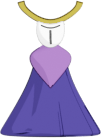
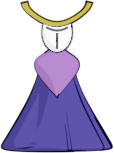
Trader is now almost finished

diff --git a/dung/world.cs b/dung/world.cs
@@ -124,64 +124,67 @@ namespace dung
 
             for (int i = 0; i < ds.rooms.Count; i++)
             {
-                int tmpspecial = rnd.Next(100);
-
-                if (tmpspecial <= 100)
+                if (!specialRooms.Contains(i))
                 {
-                    AddObject(new Trader(contentManager, ds.rooms[i].Item1, ds.rooms[i].Item2, sampleTraders[0]));
-                }
-                else if(!specialRooms.Contains(i))
-                {
-                    insertRoomObtaclesAt(contentManager, ds.rooms[i].Item1 - 7, ds.rooms[i].Item2 - 7, 12, 12, "", 7, 5, 12);
+                    int tmpspecial = rnd.Next(100);
 
-                    int roomDif = ds.roomsRarity[i]; 
-
-                    if (roomDif == 0)
+                    if (tmpspecial <= 70)
                     {
-                        insertMobs(contentManager, ds.rooms[i].Item1, ds.rooms[i].Item2, 12, 12, rnd.Next(3, 5), 0);
-                    }
-                    else if (roomDif == 1)
-                    {
-                        insertMobs(contentManager, ds.rooms[i].Item1, ds.rooms[i].Item2, 12, 12, rnd.Next(5, 8), 0);
-                        insertMobs(contentManager, ds.rooms[i].Item1, ds.rooms[i].Item2, 12, 12, rnd.Next(2, 5), 1);
-                    }
-                    else if(roomDif == 2)
-                    {
-                        insertMobs(contentManager, ds.rooms[i].Item1, ds.rooms[i].Item2, 12, 12, rnd.Next(8, 12), 0);
-                        insertMobs(contentManager, ds.rooms[i].Item1, ds.rooms[i].Item2, 12, 12, rnd.Next(5, 8), 1);
-                    }
-                    else if(roomDif == 3)
-                    {
-                        insertMobs(contentManager, ds.rooms[i].Item1, ds.rooms[i].Item2, 12, 12, rnd.Next(11, 16), 0);
-                        insertMobs(contentManager, ds.rooms[i].Item1, ds.rooms[i].Item2, 12, 12, rnd.Next(5, 10), 1);
-                        //insertMobs(contentManager, ds.rooms[i].Item1, ds.rooms[i].Item2, 12, 12, rnd.Next(1, 3), 2);
+                        AddObject(new Trader(contentManager, ds.rooms[i].Item1, ds.rooms[i].Item2, sampleTraders[0]));
                     }
                     else
                     {
-                        roomDif = 4;
+                        insertRoomObtaclesAt(contentManager, ds.rooms[i].Item1 - 7, ds.rooms[i].Item2 - 7, 12, 12, "", 7, 5, 12);
 
-                        insertMobs(contentManager, ds.rooms[i].Item1, ds.rooms[i].Item2, 12, 12, rnd.Next(12, 21), 0);
-                        insertMobs(contentManager, ds.rooms[i].Item1, ds.rooms[i].Item2, 12, 12, rnd.Next(7, 14), 1);
-                        //insertMobs(contentManager, ds.rooms[i].Item1, ds.rooms[i].Item2, 12, 12, rnd.Next(2, 5), 2);
-                    }
+                        int roomDif = ds.roomsRarity[i];
 
-                    int tmptype = 0;
-
-                    List<int> tmprar = new List<int>();
-
-                    for (int tmprarc = 0; tmprarc < sampleGuns.Count; tmprarc++)
-                    {
-                        if (sampleGuns[tmprarc].rarity == roomDif)
+                        if (roomDif == 0)
                         {
-                            tmprar.Add(tmprarc);
+                            insertMobs(contentManager, ds.rooms[i].Item1, ds.rooms[i].Item2, 12, 12, rnd.Next(3, 5), 0);
                         }
-                    }
+                        else if (roomDif == 1)
+                        {
+                            insertMobs(contentManager, ds.rooms[i].Item1, ds.rooms[i].Item2, 12, 12, rnd.Next(5, 8), 0);
+                            insertMobs(contentManager, ds.rooms[i].Item1, ds.rooms[i].Item2, 12, 12, rnd.Next(2, 5), 1);
+                        }
+                        else if (roomDif == 2)
+                        {
+                            insertMobs(contentManager, ds.rooms[i].Item1, ds.rooms[i].Item2, 12, 12, rnd.Next(8, 12), 0);
+                            insertMobs(contentManager, ds.rooms[i].Item1, ds.rooms[i].Item2, 12, 12, rnd.Next(5, 8), 1);
+                        }
+                        else if (roomDif == 3)
+                        {
+                            insertMobs(contentManager, ds.rooms[i].Item1, ds.rooms[i].Item2, 12, 12, rnd.Next(11, 16), 0);
+                            insertMobs(contentManager, ds.rooms[i].Item1, ds.rooms[i].Item2, 12, 12, rnd.Next(5, 10), 1);
+                            //insertMobs(contentManager, ds.rooms[i].Item1, ds.rooms[i].Item2, 12, 12, rnd.Next(1, 3), 2);
+                        }
+                        else
+                        {
+                            roomDif = 4;
 
-                    tmptype = rnd.Next(0, tmprar.Count);
+                            insertMobs(contentManager, ds.rooms[i].Item1, ds.rooms[i].Item2, 12, 12, rnd.Next(12, 21), 0);
+                            insertMobs(contentManager, ds.rooms[i].Item1, ds.rooms[i].Item2, 12, 12, rnd.Next(7, 14), 1);
+                            //insertMobs(contentManager, ds.rooms[i].Item1, ds.rooms[i].Item2, 12, 12, rnd.Next(2, 5), 2);
+                        }
 
-                    if (tmptype < tmprar.Count && tmprar[tmptype] < sampleGuns.Count)
-                    {
-                        insertGun(contentManager, ds.rooms[i].Item1, ds.rooms[i].Item2, 13, 13, tmprar[tmptype]);
+                        int tmptype = 0;
+
+                        List<int> tmprar = new List<int>();
+
+                        for (int tmprarc = 0; tmprarc < sampleGuns.Count; tmprarc++)
+                        {
+                            if (sampleGuns[tmprarc].rarity == roomDif)
+                            {
+                                tmprar.Add(tmprarc);
+                            }
+                        }
+
+                        tmptype = rnd.Next(0, tmprar.Count);
+
+                        if (tmptype < tmprar.Count && tmprar[tmptype] < sampleGuns.Count)
+                        {
+                            insertGun(contentManager, ds.rooms[i].Item1, ds.rooms[i].Item2, 13, 13, tmprar[tmptype]);
+                        }
                     }
                 }
             }

diff --git a/dung/trader.cs b/dung/trader.cs
@@ -16,10 +16,17 @@ namespace dung
         public override double X { get => base.X; protected set => base.X = value; }
         public override double Y { get => base.Y; protected set => base.Y = value; }
         public override string Action { get; protected set; } = "id";
-        public List<Tuple<Item, Item>> ItemsForChange { get; protected set; }
+        public List<Tuple<int, Tuple<Item, int>>> ItemsForChange { get; protected set; }
+        private int timeSinceLastShow { get; set; } = 0;
+        public int currentOffer { get; protected set; } = 0;
+        private SpriteFont hpFont;
 
         public Trader(ContentManager contentManager, double x, double y, int type)
         {
+            hpFont = contentManager.Load<SpriteFont>("hpfont");
+
+            ItemsForChange = new List<Tuple<int, Tuple<Item, int>>>();
+         
             //given shit
             X = x;
             Y = y;
@@ -32,6 +39,30 @@ namespace dung
                 List<string> tmplist = sr.ReadToEnd().Split('\n').ToList();
 
                 int n = Int32.Parse(tmplist[0]);
+
+                int currentStr;
+
+                for (currentStr = 1; currentStr <= n * 4; currentStr += 4)
+                {
+                    string classType1 = tmplist[currentStr];
+                    int type1 = Int32.Parse(tmplist[currentStr + 1]);
+                    
+                    int count1 = Int32.Parse(tmplist[currentStr + 2]);
+                    int count2 = Int32.Parse(tmplist[currentStr + 3]);
+
+                    Item item1 = null;
+
+                    if (classType1 == "Coin")
+                    {
+                        item1 = new Coin(contentManager, 0, 0, type1);
+                    }
+                    else if (classType1 == "Gun")
+                    {
+                        item1 = new Gun(contentManager, type1, 0, 0);
+                    }
+
+                    ItemsForChange.Add(new Tuple<int, Tuple<Item, int>>(count2, new Tuple<Item, int>(item1, count1)));
+                }
             }
 
             base.UpdateTexture(contentManager, true);
@@ -39,23 +70,44 @@ namespace dung
 
         public Trader(ContentManager contentManager, double x, double y, Trader sample)
         {
+            hpFont = sample.hpFont;
+
             //given shit
             X = x;
             Y = y;
 
             Type = sample.Type;
 
+            ItemsForChange = sample.ItemsForChange;
+
             base.UpdateTexture(contentManager, true);
         }
 
         public override void Update(ContentManager contentManager, GameWorld gameWorld, int myIndex)
         {
+            timeSinceLastShow++;
+
+            var ks = Keyboard.GetState();
+
+            if (timeSinceLastShow >= 40)
+            {
+                if (gameWorld.GetDist(gameWorld.referenceToHero.X, gameWorld.referenceToHero.Y, X, Y) <= this.Radius + gameWorld.referenceToHero.Radius + 1)
+                {
+                    if(ks.IsKeyDown(Keys.Space))
+                    {
+                        currentOffer++;
+                    }
+                }
+            }
+            
             UpdateTexture(contentManager, false);
         }
 
         public override void Draw(SpriteBatch spriteBatch, int x, int y)
         {
             base.Draw(spriteBatch, x, y);
+
+            spriteBatch.DrawString(hpFont, currentOffer.ToString(), new Vector2(x - Textures[texturePhase].Width / 2, y - Textures[texturePhase].Height * 1.1f), Color.White);
         }
     }
 }
